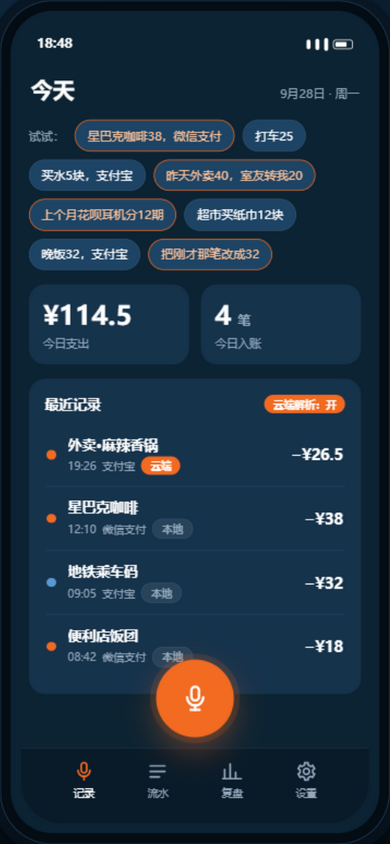
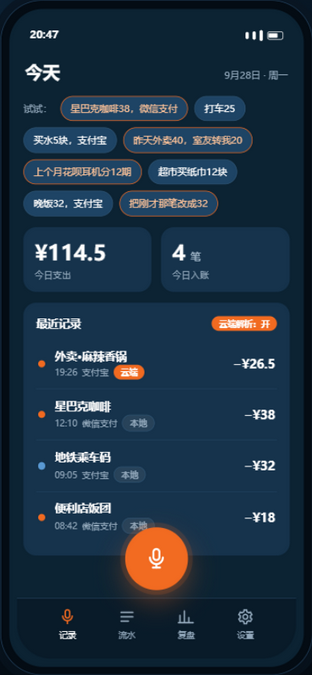
Prototype: ledger income/expense filter + month switch, week switcher and multi-week comparison in report, verbatim notes
- 流水: 筛选改为 全部/支出/收入, 新增年月切换(‹ ›)与收支汇总
- 复盘: 本周对比上周 改为周次切换; 新增三种对比基准与近8周柱状图; AI 建议按所选周生成
- 入账卡片: 备注默认保留完整原话(AA两笔附加语义前缀)
- 修复窗口高度不足时 flex 居中把手机推出视口的布局问题

diff --git a/index.html b/index.html
@@ -15,7 +15,7 @@ html,body{height:100%}
 body{
   background:radial-gradient(1200px 700px at 30% 20%, #123049 0%, #071523 60%, #050e17 100%);
   font-family:-apple-system,BlinkMacSystemFont,"PingFang SC","Microsoft YaHei","Segoe UI",sans-serif;
-  color:var(--text);display:flex;align-items:center;justify-content:center;gap:48px;min-height:100vh;padding:24px;
+  color:var(--text);display:flex;align-items:flex-start;justify-content:center;gap:48px;min-height:100vh;padding:24px;
 }
 /* ---------- 桌面说明栏 ---------- */
 .info{max-width:330px;display:none}
@@ -33,7 +33,7 @@ body{
 .phone{
   width:390px;height:844px;background:#040c14;border-radius:52px;
   border:1px solid #22405c;box-shadow:0 40px 90px rgba(0,0,0,.55),0 0 0 10px #0a1826;
-  position:relative;flex:none;
+  position:relative;flex:none;margin:auto;
 }
 .screen{position:absolute;inset:10px;background:var(--bg);border-radius:42px;overflow:hidden;display:flex;flex-direction:column}
 .statusbar{height:44px;display:flex;align-items:flex-end;justify-content:space-between;padding:0 26px 4px;font-size:13px;font-weight:600;flex:none}
@@ -183,6 +183,19 @@ body{
 .toast.show{opacity:1;transform:none}
 .kv{display:flex;justify-content:space-between;font-size:12.5px;padding:7px 0;color:var(--muted)}
 .kv b{color:var(--text);font-weight:600}
+/* 月份 / 周次切换 */
+.monthnav{display:flex;align-items:center;justify-content:center;gap:16px;margin-bottom:14px}
+.mbtn{width:34px;height:34px;border-radius:10px;background:var(--card);border:1px solid var(--line);color:var(--text);font-size:15px;cursor:pointer;font-family:inherit;transition:transform .08s}
+.mbtn:active{transform:scale(.92)}
+.mtitle{font-size:15px;font-weight:700;min-width:160px;text-align:center}
+/* 周对比柱状图 */
+.chart{display:flex;align-items:stretch;gap:7px;height:120px}
+.bcol{flex:1;display:flex;flex-direction:column;align-items:center}
+.bval{font-size:9px;color:var(--muted);height:12px;line-height:12px}
+.bwrap{flex:1;width:100%;display:flex;align-items:flex-end;justify-content:center}
+.bbar{width:82%;background:#3E6C93;border-radius:5px 5px 0 0;min-height:2px}
+.bbar.cur{background:var(--accent)}
+.blbl{font-size:9px;color:var(--muted);margin-top:5px}
 </style>
 </head>
 <body>
@@ -236,33 +249,53 @@ body{
 
     <!-- 流水 -->
     <div class="body" id="scr-ledger" style="display:none">
-      <div class="hd"><span class="t">流水</span><span class="s" id="l-month"></span></div>
+      <div class="hd"><span class="t">流水</span><span class="s" id="l-summary"></span></div>
+      <div class="monthnav">
+        <button class="mbtn" id="m-prev">‹</button>
+        <span class="mtitle" id="m-title">2026年9月</span>
+        <button class="mbtn" id="m-next">›</button>
+      </div>
       <div class="filter" id="l-filter">
         <button class="chip" data-f="all" style="border-color:var(--accent);color:#FFC49A">全部</button>
-        <button class="chip" data-f="local">本地规则</button>
-        <button class="chip" data-f="cloud">云端解析</button>
+        <button class="chip" data-f="expense">支出</button>
+        <button class="chip" data-f="income">收入</button>
       </div>
       <div id="l-list"></div>
     </div>
 
     <!-- 复盘 -->
     <div class="body" id="scr-report" style="display:none">
-      <div class="hd"><span class="t">复盘</span><span class="s">本周对比上周</span></div>
+      <div class="hd"><span class="t">复盘</span><span class="s">周报 · 周次切换 · 多周对比</span></div>
+      <div class="monthnav">
+        <button class="mbtn" id="w-prev">‹</button>
+        <span class="mtitle" id="w-title">本周</span>
+        <button class="mbtn" id="w-next">›</button>
+      </div>
       <div class="card">
-        <div class="small muted">本周支出</div>
+        <div class="small muted">该周支出</div>
         <div class="big" id="r-week">¥0</div>
         <div class="small" id="r-delta" style="margin-top:4px"></div>
         <div class="bar"><i id="r-bar" style="width:0%"></i></div>
         <div class="row small muted"><span id="r-budget-txt"></span><span id="r-left"></span></div>
       </div>
       <div class="card">
+        <div style="font-size:14px;font-weight:700;margin-bottom:10px">周对比</div>
+        <div class="filter" id="r-cmp">
+          <button class="chip" data-c="prev" style="border-color:var(--accent);color:#FFC49A">上周</button>
+          <button class="chip" data-c="avg4">近4周均值</button>
+          <button class="chip" data-c="max12">近12周最高</button>
+        </div>
+        <div class="chart" id="r-chart"></div>
+        <div class="small muted" style="margin-top:8px">近 8 周支出，橙色为当前所选周</div>
+      </div>
+      <div class="card">
         <div style="font-size:14px;font-weight:700;margin-bottom:4px">分类构成</div>
         <div id="r-cats"></div>
       </div>
       <div class="card">
-        <div style="font-size:14px;font-weight:700;margin-bottom:8px">本周周报</div>
+        <div style="font-size:14px;font-weight:700;margin-bottom:8px">AI 建议</div>
         <div class="quote" id="r-report"></div>
-        <div class="small muted" style="margin-top:8px;line-height:1.6">周报由云端基于聚合数字生成，未上传流水明细。</div>
+        <div class="small muted" style="margin-top:8px;line-height:1.6">建议由云端基于所选周的聚合数字生成，未上传流水明细。</div>
       </div>
     </div>
 
@@ -403,22 +436,22 @@ function parseLocal(t){
   if(amt===null)return null;
   if(t.length>18)return null;                       // 复杂句交给云端
   if(/室友|转我|AA|分期|期/.test(t))return null;     // 多笔/复杂语义交云端
-  return [{amount:amt,type:"expense",cat:pickCat(t),acc:pickAccount(t),note:pickNote(t,pickCat(t)),src:"local"}];
+  return [{amount:amt,type:"expense",cat:pickCat(t),acc:pickAccount(t),note:t,src:"local"}];
 }
 /* 云端兜底层（原型内置样本） */
 function parseCloud(t){
   if(/室友|转我|AA/.test(t)){
     const amt=extractAmount(t)||40, half=amt/2;
     return [
-      {amount:amt,type:"expense",cat:"餐饮",acc:"微信支付",note:"外卖（AA 总价）",src:"cloud"},
-      {amount:half,type:"income",cat:"收入",acc:"微信支付",note:"室友转来的饭钱",src:"cloud"},
+      {amount:amt,type:"expense",cat:"餐饮",acc:"微信支付",note:`外卖（AA 总价）｜${t}`,src:"cloud"},
+      {amount:half,type:"income",cat:"收入",acc:"微信支付",note:`室友转来的饭钱｜${t}`,src:"cloud"},
     ];
   }
   if(/分\s*\d+\s*期|分期/.test(t)){
-    return [{amount:199,type:"expense",cat:"购物",acc:"支付宝",note:"耳机 · 12 期（首期）",src:"cloud",v02:"分期计划 v0.2 支持，本笔按首期入账"}];
+    return [{amount:199,type:"expense",cat:"购物",acc:"支付宝",note:t,src:"cloud",v02:"分期计划 v0.2 支持，本笔按首期入账"}];
   }
   const amt=extractAmount(t)||0;
-  return [{amount:amt,type:"expense",cat:pickCat(t),acc:pickAccount(t),note:pickNote(t,pickCat(t)),src:"cloud"}];
+  return [{amount:amt,type:"expense",cat:pickCat(t),acc:pickAccount(t),note:t,src:"cloud"}];
 }
 /* 总入口 */
 function parse(text){
@@ -596,50 +629,99 @@ function renderHome(){
   const recent=[...store.entries].sort((a,b)=>b.ts-a.ts).slice(0,4);
   $("#h-recent").innerHTML=recent.length?recent.map(e=>entryRow(e)).join(""):'<div class="small muted" style="padding:8px 0">还没有记录，按住下方按钮说一句</div>';
 }
-let filter="all";
+/* ---- 流水：类型筛选 + 年月切换 ---- */
+let ltype="all";
+const nowD=new Date();
+let ledgerYM={y:nowD.getFullYear(),m:nowD.getMonth()};
 $$("#l-filter .chip").forEach(c=>c.addEventListener("click",()=>{
-  filter=c.dataset.f;
+  ltype=c.dataset.f;
   $$("#l-filter .chip").forEach(x=>{x.style.borderColor="";x.style.color="";});
   c.style.borderColor="var(--accent)";c.style.color="#FFC49A";
   renderLedger();
 }));
+$("#m-prev").addEventListener("click",()=>{ledgerYM.m--;if(ledgerYM.m<0){ledgerYM.m=11;ledgerYM.y--;}renderLedger();});
+$("#m-next").addEventListener("click",()=>{ledgerYM.m++;if(ledgerYM.m>11){ledgerYM.m=0;ledgerYM.y++;}renderLedger();});
+function inMonth(e){const d=new Date(e.ts);return d.getFullYear()===ledgerYM.y&&d.getMonth()===ledgerYM.m;}
 function renderLedger(){
-  const n=new Date();
-  $("#l-month").textContent=`${n.getFullYear()}年${n.getMonth()+1}月 · 共 ${store.entries.length} 笔`;
-  const list=[...store.entries].filter(e=>filter==="all"||e.src===filter).sort((a,b)=>b.ts-a.ts);
-  if(!list.length){$("#l-list").innerHTML='<div class="small muted" style="padding:20px 0">该筛选下暂无记录</div>';return;}
+  $("#m-title").textContent=`${ledgerYM.y}年${ledgerYM.m+1}月`;
+  const monthAll=store.entries.filter(inMonth);
+  const exp=monthAll.filter(e=>e.type==="expense").reduce((s,e)=>s+e.amount,0);
+  const inc=monthAll.filter(e=>e.type==="income").reduce((s,e)=>s+e.amount,0);
+  $("#l-summary").textContent=`${monthAll.length} 笔 · 支出 ${fmt(exp)} · 收入 ${fmt(inc)}`;
+  const list=[...monthAll].filter(e=>ltype==="all"||e.type===ltype).sort((a,b)=>b.ts-a.ts);
+  if(!list.length){
+    $("#l-list").innerHTML='<div class="small muted" style="padding:24px 2px;line-height:1.8">该月暂无记录<br>切换到其他月份，或回首页说一句记一笔。</div>';
+    return;
+  }
   const groups={};
   list.forEach(e=>{(groups[dayKey(e.ts)]=groups[dayKey(e.ts)]||[]).push(e);});
   $("#l-list").innerHTML=Object.entries(groups).map(([k,arr])=>{
-    const sum=arr.filter(e=>e.type==="expense").reduce((s,e)=>s+e.amount,0);
-    return `<div class="dayhead"><span>${k}</span><span>支出 ${fmt(sum)}</span></div>`+arr.map(e=>entryRow(e)).join("");
+    const eSum=arr.filter(e=>e.type==="expense").reduce((s,e)=>s+e.amount,0);
+    const iSum=arr.filter(e=>e.type==="income").reduce((s,e)=>s+e.amount,0);
+    const right=iSum>0?`支出 ${fmt(eSum)} · 收入 ${fmt(iSum)}`:`支出 ${fmt(eSum)}`;
+    return `<div class="dayhead"><span>${k}</span><span>${right}</span></div>`+arr.map(e=>entryRow(e)).join("");
   }).join("");
 }
+/* ---- 复盘：周次切换 + 多周对比 ---- */
+let weekOffset=0, cmpMode="prev";
+function weekStart(ts){const d=new Date(ts);const day=(d.getDay()+6)%7;const m=new Date(d);m.setDate(d.getDate()-day);m.setHours(0,0,0,0);return m.getTime();}
+function weekBounds(off){const s=weekStart(Date.now())-off*7*864e5;return [s,s+7*864e5];}
+function weekSum(s,e){return store.entries.filter(x=>x.ts>=s&&x.ts<e&&x.type==="expense").reduce((a,x)=>a+x.amount,0);}
+function isoWeek(ts){
+  const d=new Date(ts);const day=(d.getDay()+6)%7;d.setDate(d.getDate()-day+3);
+  const y0=new Date(d.getFullYear(),0,4);const dy=(d.getDay()+6)%7;y0.setDate(y0.getDate()-dy+3);
+  return 1+Math.round((d-y0)/864e5/7);
+}
+const fmtMD=ts=>{const d=new Date(ts);return `${d.getMonth()+1}/${d.getDate()}`;};
+const fmtShort=n=>n>=1000?(n/1000).toFixed(1)+"k":String(Math.round(n));
+$("#w-prev").addEventListener("click",()=>{weekOffset++;renderReport();});
+$("#w-next").addEventListener("click",()=>{if(weekOffset>0){weekOffset--;renderReport();}});
+$$("#r-cmp .chip").forEach(c=>c.addEventListener("click",()=>{
+  cmpMode=c.dataset.c;
+  $$("#r-cmp .chip").forEach(x=>{x.style.borderColor="";x.style.color="";});
+  c.style.borderColor="var(--accent)";c.style.color="#FFC49A";
+  renderReport();
+}));
 function renderReport(){
-  const week=store.entries.filter(e=>Date.now()-e.ts<7*864e5&&e.type==="expense");
-  const prev=store.entries.filter(e=>{const x=Date.now()-e.ts;return x>=7*864e5&&x<14*864e5&&e.type==="expense";});
-  const wsum=week.reduce((s,e)=>s+e.amount,0), psum=prev.reduce((s,e)=>s+e.amount,0);
-  const hasPrev=prev.length>0;
+  const [ws,we]=weekBounds(weekOffset);
+  const wsum=weekSum(ws,we);
+  $("#w-title").textContent=`第 ${isoWeek(ws)} 周 · ${fmtMD(ws)}-${fmtMD(we-864e5)}`+(weekOffset===0?"（本周）":"");
   $("#r-week").innerHTML=fmt(wsum);
-  $("#r-delta").innerHTML=hasPrev
-    ? `较上周 <b style="color:${wsum>psum?"#FFC49A":"#8FD3A6"}">${wsum>psum?"+":""}${Math.round((wsum-psum)/psum*100)}%</b> <span class="muted">（上周 ${fmt(psum)}）</span>`
-    : `<span class="muted">上周暂无数据 · 这是第一个记账周</span>`;
-  const monthSpend=store.entries.filter(e=>{const x=new Date(e.ts);return x.getMonth()===new Date().getMonth()&&e.type==="expense";}).reduce((s,e)=>s+e.amount,0);
+  /* 对比基准 */
+  let base=0,baseLabel="上周";
+  if(cmpMode==="prev"){const [ps,pe]=weekBounds(weekOffset+1);base=weekSum(ps,pe);}
+  else if(cmpMode==="avg4"){let t=0;for(let i=1;i<=4;i++){const [s,e]=weekBounds(weekOffset+i);t+=weekSum(s,e);}base=t/4;baseLabel="近4周均值";}
+  else{for(let i=1;i<=12;i++){const [s,e]=weekBounds(weekOffset+i);base=Math.max(base,weekSum(s,e));}baseLabel="近12周最高";}
+  $("#r-delta").innerHTML=base>0
+    ? `较${baseLabel} <b style="color:${wsum>base?"#FFC49A":"#8FD3A6"}">${wsum>base?"+":""}${Math.round((wsum-base)/base*100)}%</b> <span class="muted">（${baseLabel} ${fmt(base)}）</span>`
+    : `<span class="muted">${baseLabel}暂无数据，先记满几周再看对比</span>`;
+  /* 月预算（始终按当前月） */
+  const monthSpend=store.entries.filter(e=>{const x=new Date(e.ts);return x.getMonth()===new Date().getMonth()&&x.getFullYear()===new Date().getFullYear()&&e.type==="expense";}).reduce((s,e)=>s+e.amount,0);
   const pct=Math.min(100,Math.round(monthSpend/store.budget*100));
   $("#r-bar").style.width=pct+"%";
   $("#r-budget-txt").textContent=`本月预算 ${fmt(store.budget)} · 已用 ${fmt(monthSpend)}`;
   $("#r-left").textContent=`剩余 ${fmt(Math.max(0,store.budget-monthSpend))}`;
+  /* 近 8 周柱状图 */
+  const bars=[];
+  for(let i=7;i>=0;i--){const [s,e]=weekBounds(weekOffset+i);bars.push({sum:weekSum(s,e),cur:i===0,label:"W"+isoWeek(s)});}
+  const max=Math.max(...bars.map(b=>b.sum),1);
+  $("#r-chart").innerHTML=bars.map(b=>`
+    <div class="bcol">
+      <div class="bval">${b.sum?fmtShort(b.sum):""}</div>
+      <div class="bwrap"><div class="bbar ${b.cur?"cur":""}" style="height:${Math.max(2,Math.round(b.sum/max*100))}%"></div></div>
+      <div class="blbl">${b.label}</div>
+    </div>`).join("");
+  /* 分类构成与 AI 建议（按所选周） */
+  const week=store.entries.filter(e=>e.ts>=ws&&e.ts<we&&e.type==="expense");
   const cats={};
-  week.forEach(e=>{if(e.type==="expense")cats[e.cat]=(cats[e.cat]||0)+e.amount;});
+  week.forEach(e=>{cats[e.cat]=(cats[e.cat]||0)+e.amount;});
   const top=Object.entries(cats).sort((a,b)=>b[1]-a[1]).slice(0,4);
-  const max=top.length?top[0][1]:1;
+  const cmax=top.length?top[0][1]:1;
   $("#r-cats").innerHTML=top.length?top.map(([c,v])=>`
-    <div class="catrow"><span class="cn">${c}</span><span class="cbar"><i style="width:${Math.round(v/max*100)}%;background:${CAT_DOT[c]}"></i></span><span class="cv">${fmt(v)}</span></div>`).join(""):'<div class="small muted">本周暂无数据</div>';
+    <div class="catrow"><span class="cn">${c}</span><span class="cbar"><i style="width:${Math.round(v/cmax*100)}%;background:${CAT_DOT[c]}"></i></span><span class="cv">${fmt(v)}</span></div>`).join(""):'<div class="small muted">该周暂无支出</div>';
   $("#r-report").textContent=top.length
-    ? hasPrev
-      ? `本周 ${top[0][0]}花了 ${fmt(top[0][1])}，占支出 ${Math.round(top[0][1]/wsum*100)}%，比上周多 ${fmt(Math.max(0,wsum-psum))}。下周先把${top[0][0]==="餐饮"?"外卖次数减半":"大额非必需支出列进清单"}，预计可省 ${fmt(Math.max(0,wsum-psum)*0.4)}。`
-      : `本周 ${top[0][0]}花了 ${fmt(top[0][1])}，占支出 ${Math.round(top[0][1]/wsum*100)}%，是最大的一项。下周先盯住它，看看能降多少。`
-    : "本周还没有支出记录，说一句话就能开始。";
+    ? `第 ${isoWeek(ws)} 周（${fmtMD(ws)}-${fmtMD(we-864e5)}）${top[0][0]}花了 ${fmt(top[0][1])}，占支出 ${Math.round(top[0][1]/wsum*100)}%，是最大的一项。${base>0?`较${baseLabel}${wsum>base?"多":"少"} ${fmt(Math.abs(wsum-base))}。`:""}下周先把${top[0][0]==="餐饮"?"外卖和咖啡次数减半":"大额非必需支出列进清单"}，预计可省 ${fmt(top[0][1]*0.3)}。`
+    : `第 ${isoWeek(ws)} 周（${fmtMD(ws)}-${fmtMD(we-864e5)}）没有支出记录。`;
 }
 function renderSettings(){
   $("#sw-cloud").classList.toggle("on",store.cloud);

diff --git a/docs/prototype/README.md b/docs/prototype/README.md
@@ -12,19 +12,20 @@
 |---|---|
 | 记录（首页） | 日期与今日统计、话术 chip、按住说话的 FAB、最近记录（含解析路径徽标） |
 | 录音浮层 | 声波动画、逐字出现的转写文本、“松手入账 · 上滑取消”提示 |
-| 解析卡片 | 本地规则 / 云端解析徽标与延迟、可编辑的金额·分类·账户·备注、一句话拆两笔、口误纠正 |
-| 流水 | 按月汇总、按日分组、每日支出小计、按解析路径筛选 |
-| 复盘 | 本周支出与上周对比、月预算进度、分类构成、一句话周报 |
+| 解析卡片 | 本地规则 / 云端解析徽标与延迟、可编辑的金额·分类·账户·备注（备注默认保留完整原话）、一句话拆两笔、口误纠正 |
+| 流水 | 年月切换（‹ ›）、全部/支出/收入筛选、按日分组与每日收支小计、解析路径徽标 |
+| 复盘 | 周次切换（‹ ›）、三种对比基准（上周/近4周均值/近12周最高）、近 8 周支出柱状对比、月预算进度、分类构成、AI 建议 |
 | 设置 | 云端解析开关、本机加密开关、导出 CSV / JSON（真实下载）、导入账单 CSV |
 
 ## 演示路径（建议按这个顺序点）
 
-1. 首页点橙色的 chip，例如「星巴克咖啡38，微信支付」→ 卡片显示**本地规则 · 7ms**；
+1. 首页点橙色的 chip，例如「星巴克咖啡38，微信支付」→ 卡片显示**本地规则 · 7ms**，备注默认保留完整原话；
 2. 点「昨天外卖40，室友转我20」→ 卡片变成**云端解析 · 486ms**，出现数据最小化说明，并拆成支出 40 与收款 20 两笔；
-3. 入账后去「流水」和「复盘」看数据联动；
-4. 去「设置」关掉云端解析，再回首页点「昨天外卖40，室友转我20」→ 得到“没听懂这句 · 可手动补全”的降级卡片；此时点「打车25」仍能走本地规则入账；
-5. 点「把刚才那笔改成32」→ 演示口误纠正；
-6. 「设置」里点导出 CSV / JSON，得到真实可用的文件；「上个月花呗耳机分12期」会带 v0.2 分期标记。
+3. 入账后去「流水」：用顶部 ‹ › 切换年月，用「支出/收入」筛选，看数据联动；
+4. 去「复盘」：用 ‹ › 翻到其他周，切换「上周/近4周均值/近12周最高」三种对比基准，看柱状图、分类构成和 AI 建议如何随之变化；
+5. 去「设置」关掉云端解析，再回首页点「昨天外卖40，室友转我20」→ 得到“没听懂这句 · 可手动补全”的降级卡片；此时点「打车25」仍能走本地规则入账；
+6. 点「把刚才那笔改成32」→ 演示口误纠正；
+7. 「设置」里点导出 CSV / JSON，得到真实可用的文件；「上个月花呗耳机分12期」会带 v0.2 分期标记。
 
 ## 与产品文档的对应
 
